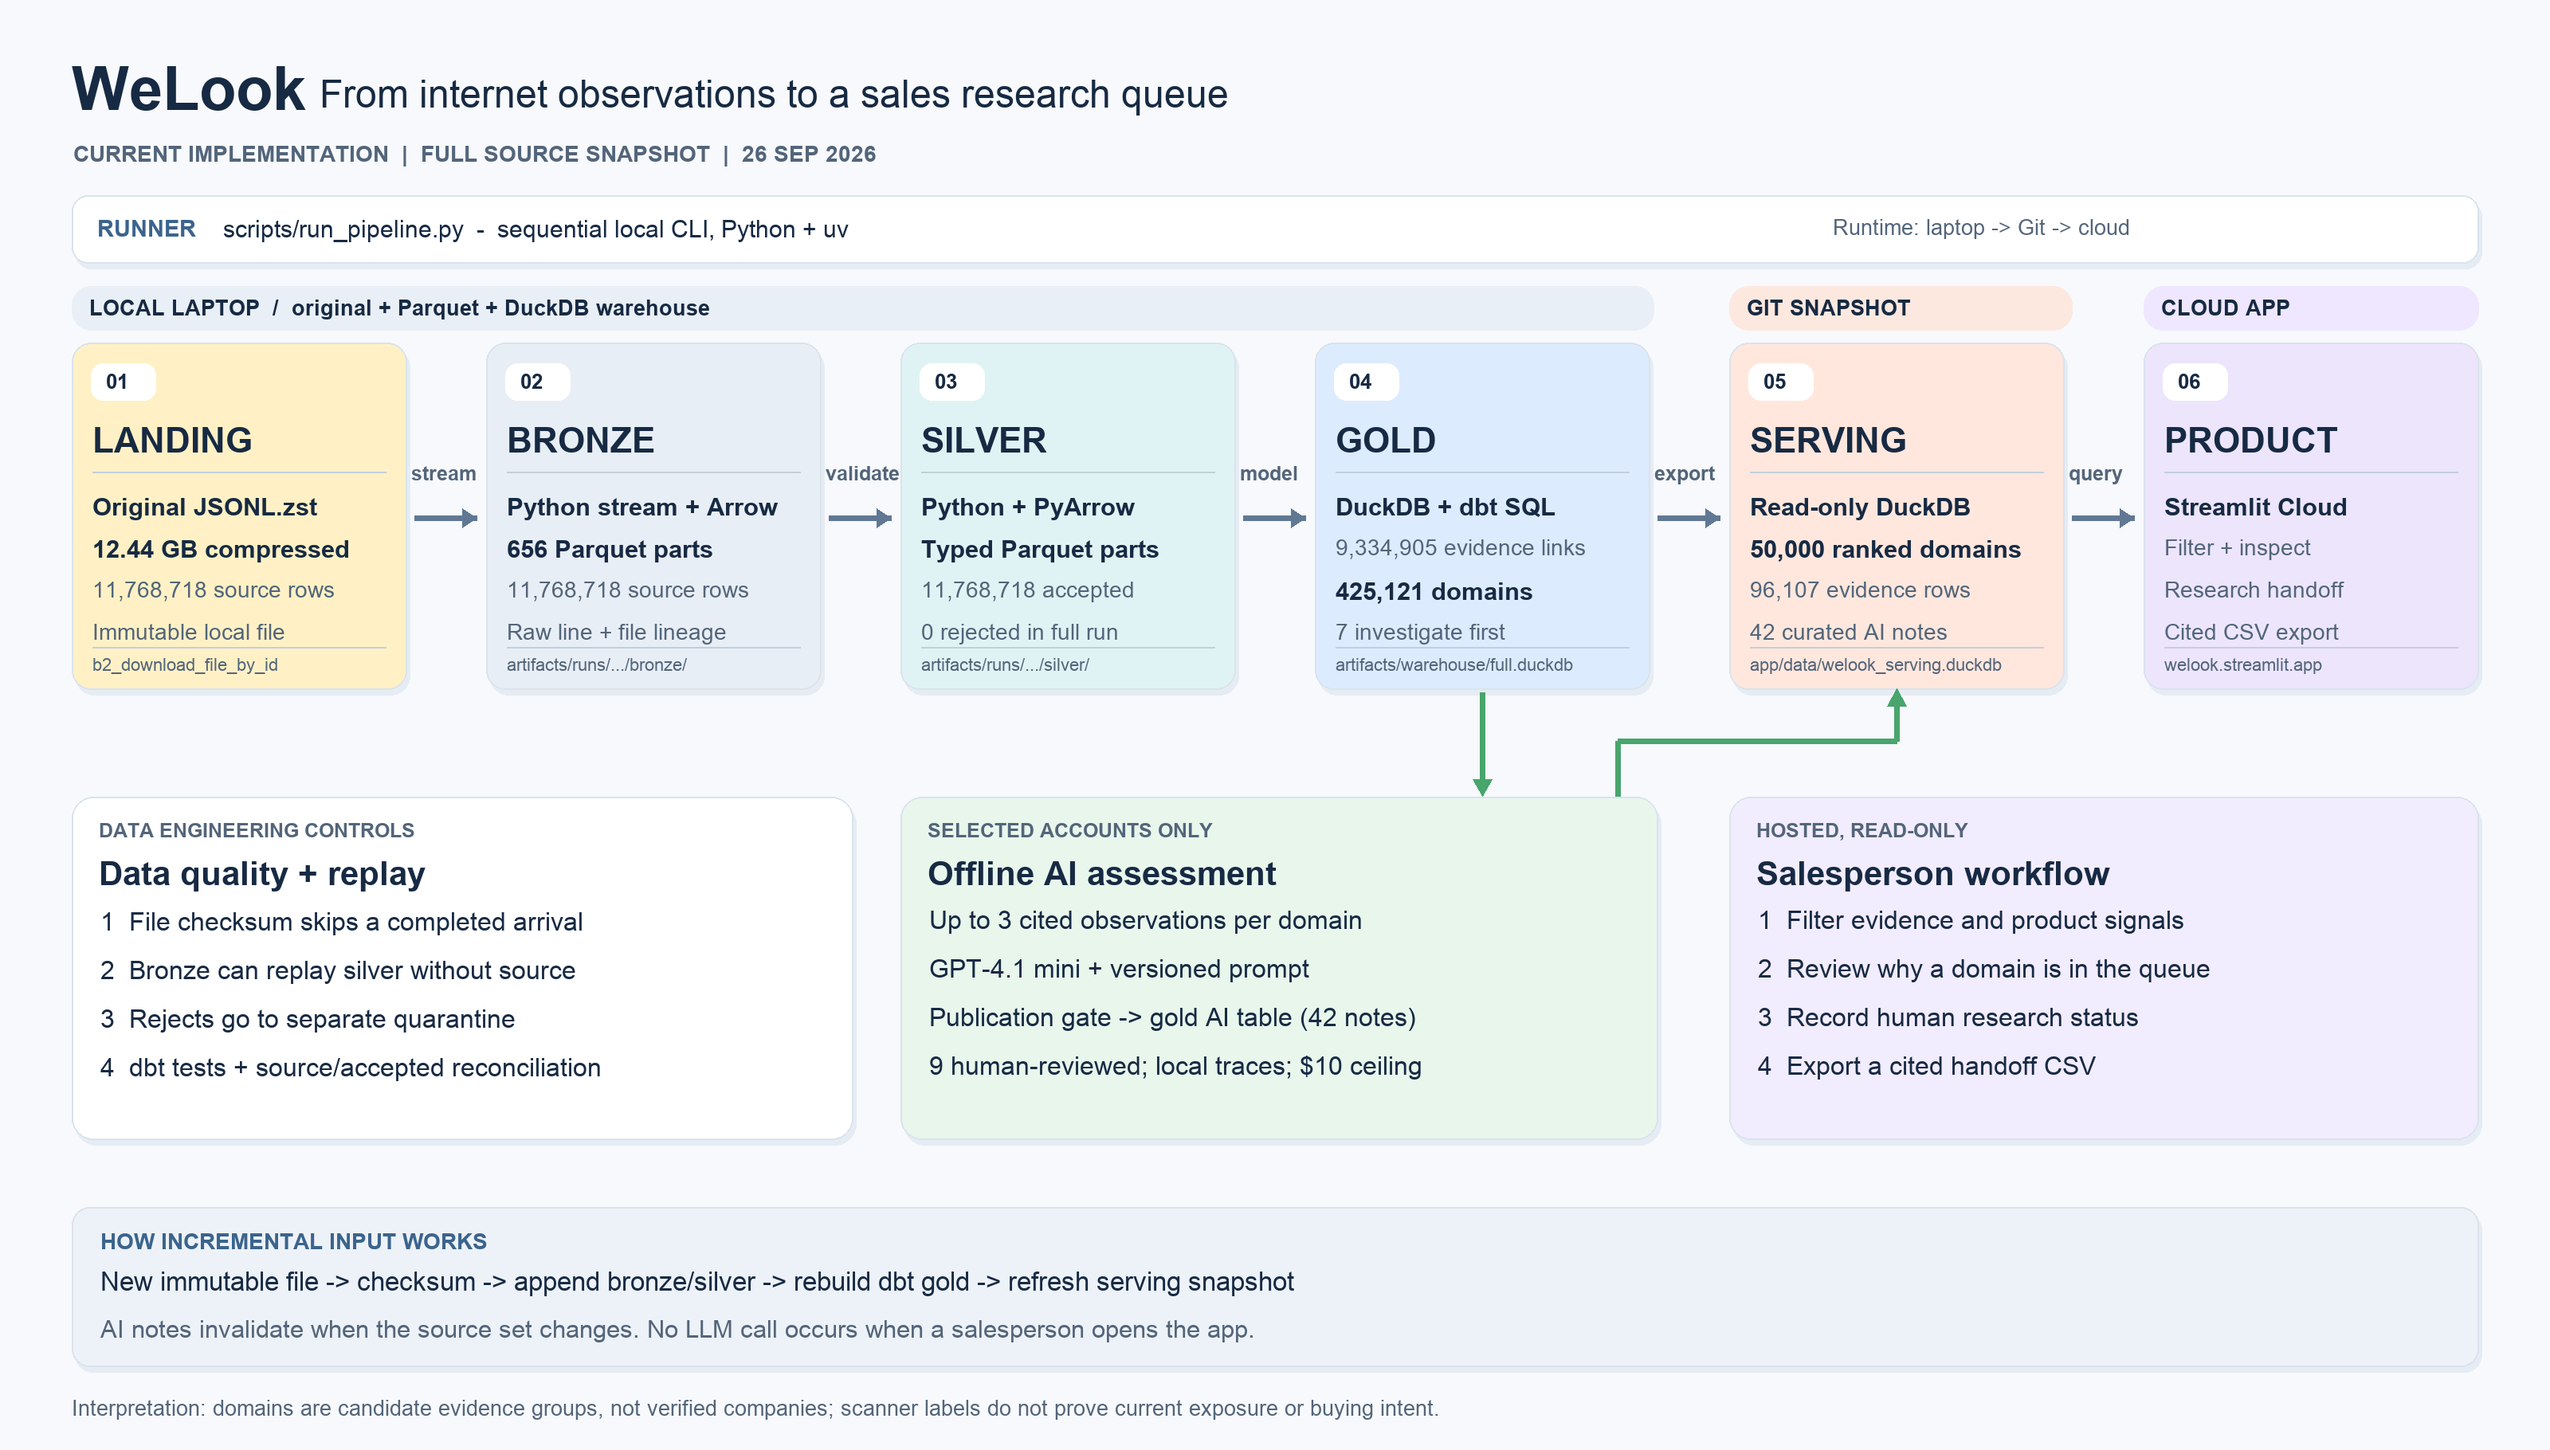
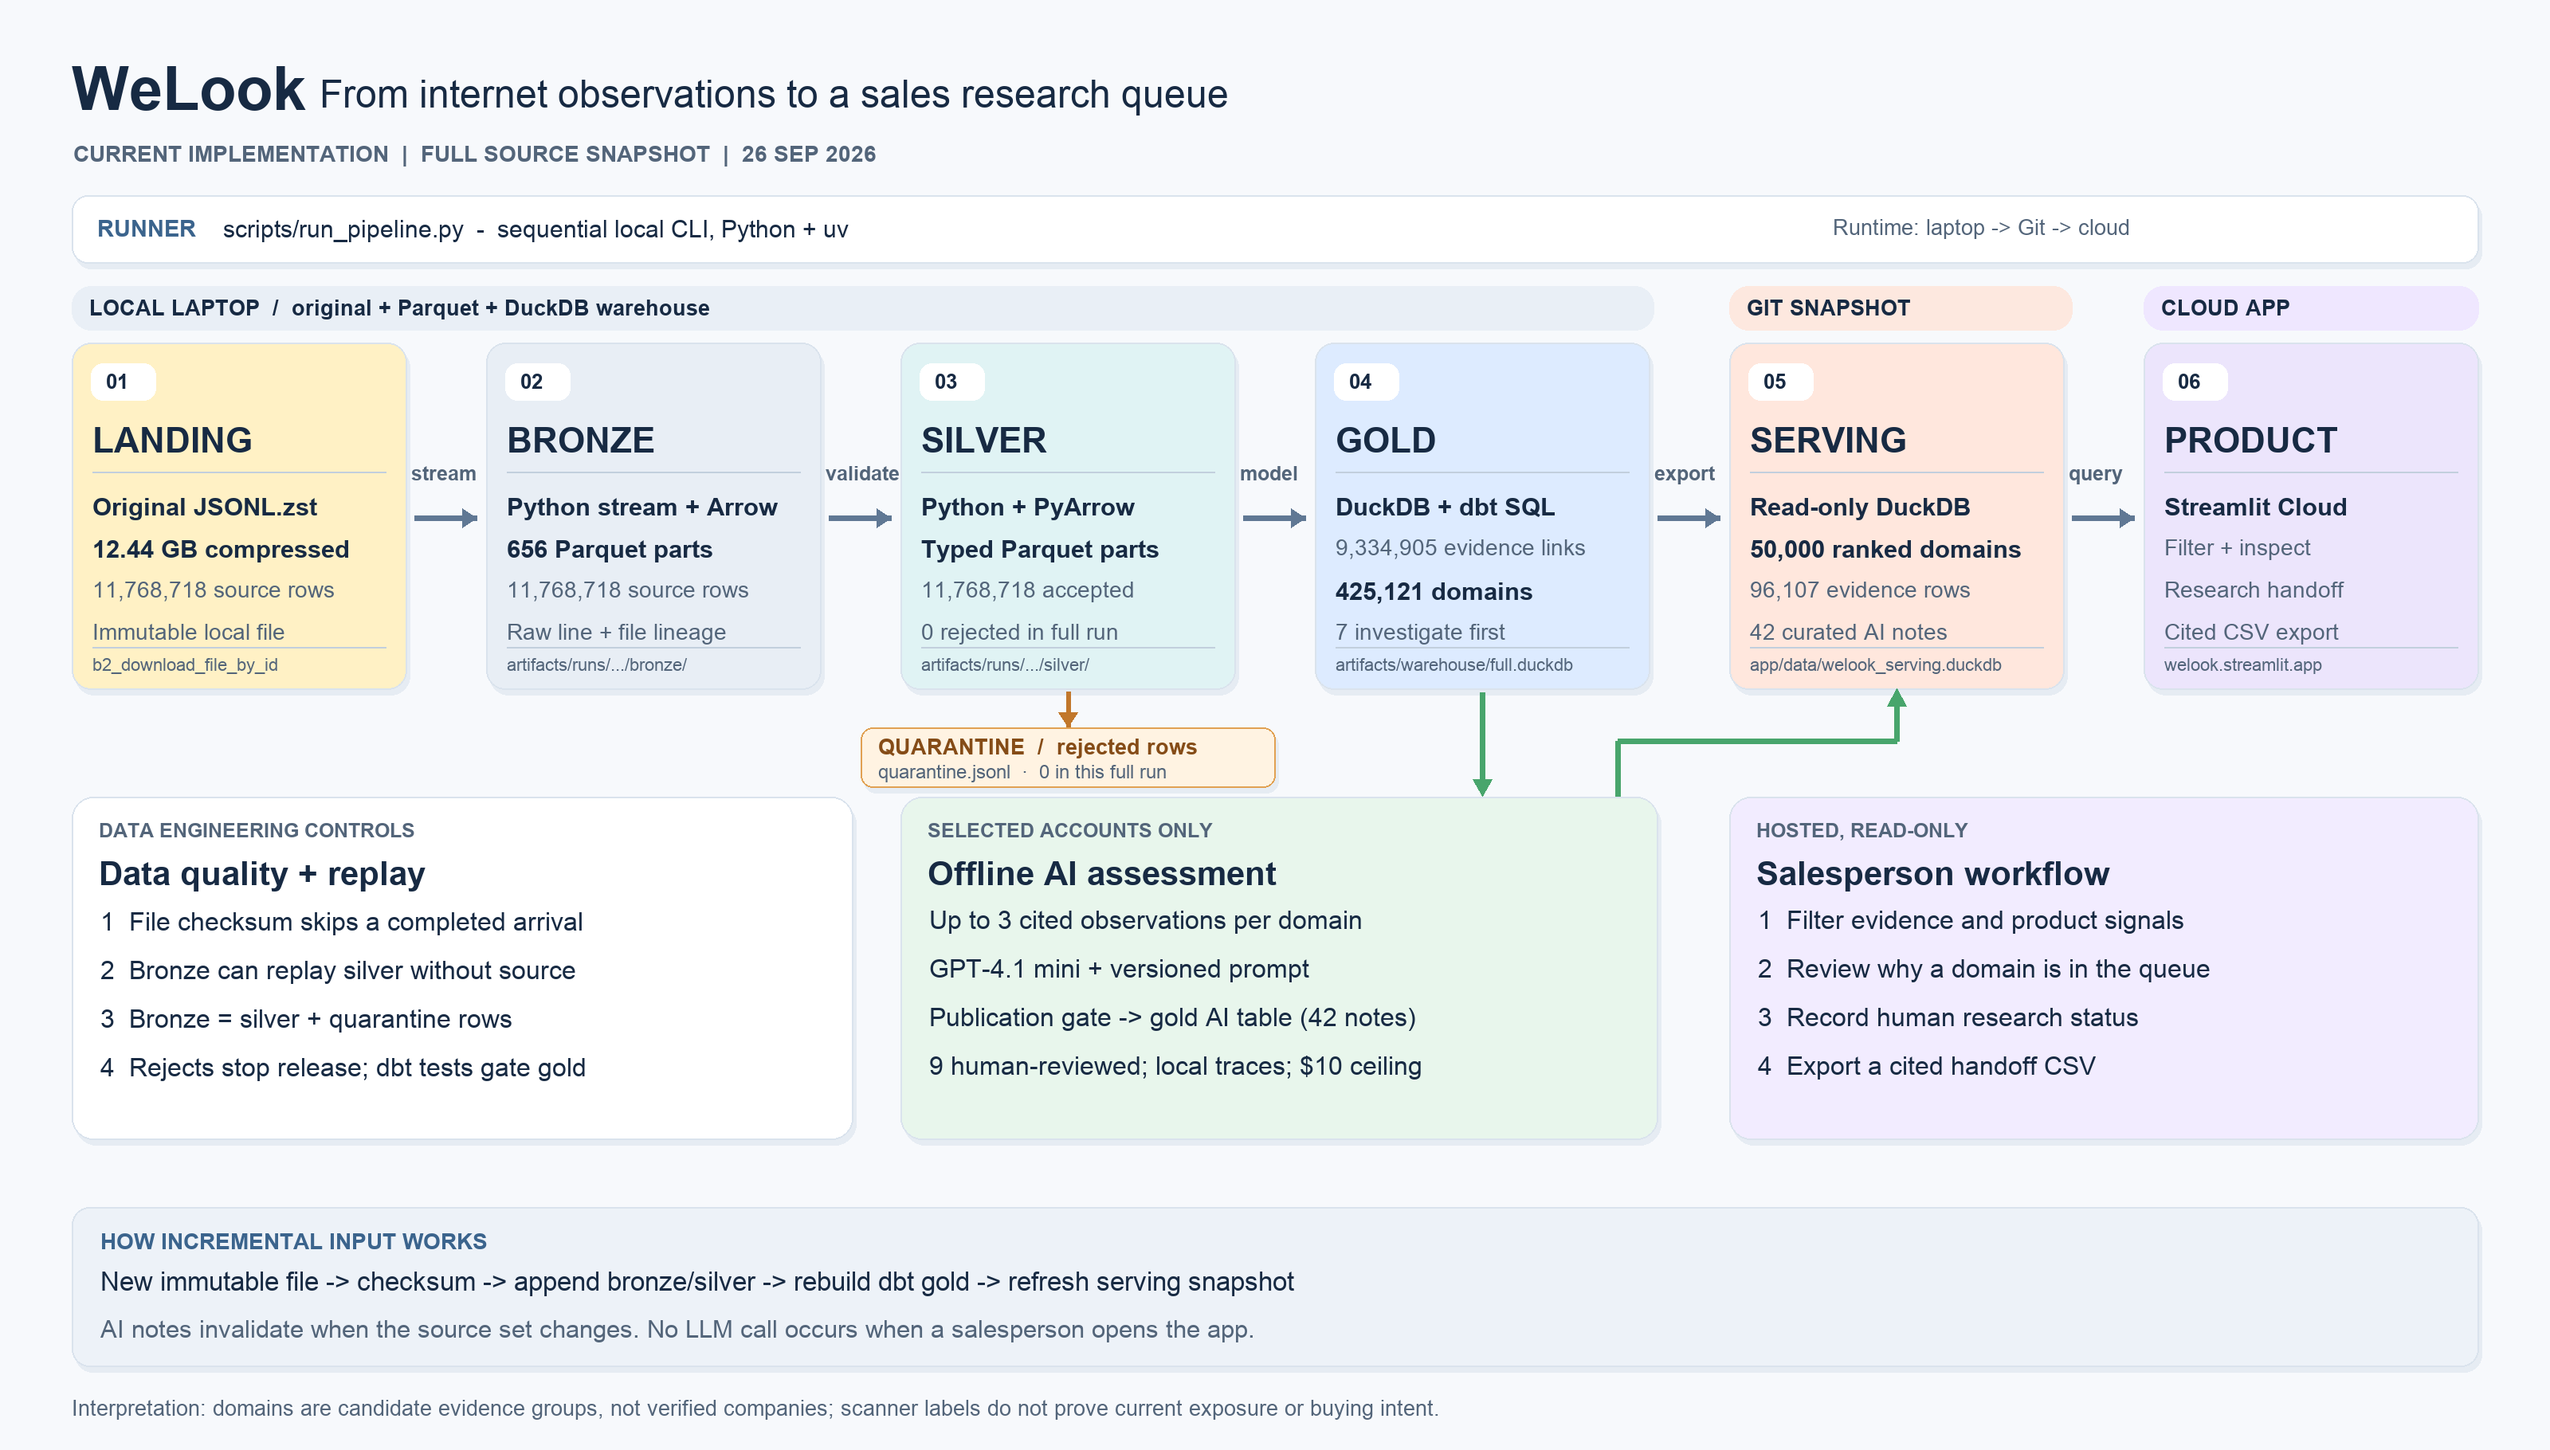
Clarify silver quarantine path in architecture diagram

Changed region(s): [[0.3125, 0.4923, 0.5, 0.5538], [0.0625, 0.6769, 0.2188, 0.7385]]

diff --git a/scripts/render_architecture_diagram.py b/scripts/render_architecture_diagram.py
@@ -150,6 +150,13 @@ def main() -> None:
         arrow(draw, (left + 430, 650), (right - 12, 650))
         label(draw, (left + 426, 580), name, 25, MUTED, True)
 
+    # Silver validation has two outcomes. Rejected rows never enter the typed
+    # silver Parquet or the gold models; they are written beside the run parts.
+    arrow(draw, (1340, 868), (1340, 912), color="#C1772B", width=6)
+    box(draw, (1080, 913, 1600, 988), "#FFF3E2", border="#E1A153", radius=15)
+    label(draw, (1102, 922), "QUARANTINE  /  rejected rows", 27, "#854C17", True)
+    label(draw, (1102, 955), "quarantine.jsonl  ·  0 in this full run", 24, MUTED)
+
     # Offline AI is a separate branch from rule-based gold, then joins serving.
     draw.line([(1860, 869), (1860, 987)], fill="#48A56C", width=7)
     draw.polygon([(1860, 999), (1848, 978), (1872, 978)], fill="#48A56C")
@@ -160,8 +167,8 @@ def main() -> None:
     panel(draw, (90, 1000, 1070, 1430), "Data quality + replay", "DATA ENGINEERING CONTROLS", "#FFFFFF")
     label(draw, (126, 1139), "1  File checksum skips a completed arrival", 32)
     label(draw, (126, 1200), "2  Bronze can replay silver without source", 32)
-    label(draw, (126, 1261), "3  Rejects go to separate quarantine", 32)
-    label(draw, (126, 1322), "4  dbt tests + source/accepted reconciliation", 32)
+    label(draw, (126, 1261), "3  Bronze = silver + quarantine rows", 32)
+    label(draw, (126, 1322), "4  Rejects stop release; dbt tests gate gold", 32)
 
     panel(draw, (1130, 1000, 2080, 1430), "Offline AI assessment", "SELECTED ACCOUNTS ONLY", "#E8F6EC")
     label(draw, (1166, 1137), "Up to 3 cited observations per domain", 32)

diff --git a/README.md b/README.md
@@ -6,9 +6,9 @@ WeLook turns the supplied internet-service observations into an evidence-backed 
 
 ## How it works
 
-![Editable WeLook architecture sketch: full-source ingestion, local warehouse, offline AI assessment, and hosted app](docs/diagrams/architecture_diagram_sketch.png)
+![WeLook architecture: full-source ingestion, silver quarantine, local warehouse, offline AI assessment, and hosted app](docs/diagrams/architecture_diagram.png)
 
-The sketch shows the **current implementation** and is backed by an [editable Excalidraw file](docs/diagrams/welook-architecture.excalidraw). Its PNG preview comes from [render_excalidraw_preview.py](scripts/render_excalidraw_preview.py). A [clean presentation PNG](docs/diagrams/architecture_diagram.png), generated from the serving report with [render_architecture_diagram.py](scripts/render_architecture_diagram.py), adds physical paths for each layer.
+The diagram shows the **current implementation**, including the separate quarantine side output from silver validation, where each layer lives, and how counts change. The [editable Excalidraw file](docs/diagrams/welook-architecture.excalidraw) shows the same flow in a compact layout. Regenerate the PNG from the serving report with [render_architecture_diagram.py](scripts/render_architecture_diagram.py).
 
 The full data path is running end to end. A separate gold AI-assessment table holds 42 advisory offline research notes: 33 guarded batch notes for ambiguous accounts, two earlier reviewed examples, and seven individually reviewed `investigate_first` briefs. The serving snapshot copies only assessments for its hosted accounts. The rule-based queue remains authoritative. See the [system architecture](docs/architecture.md) for the data contracts, incremental-load behavior, and cost controls.
 

diff --git a/docs/architecture.md b/docs/architecture.md
@@ -10,7 +10,7 @@ The supplied snapshot is the core dataset: **11,768,718 service observations** i
 
 ## Data flow
 
-The [editable Excalidraw diagram](diagrams/welook-architecture.excalidraw) has a [sketch-style PNG preview](diagrams/architecture_diagram_sketch.png) for walkthroughs. A [clean architecture PNG](diagrams/architecture_diagram.png) adds the current storage paths and record-count reductions.
+The [architecture PNG](diagrams/architecture_diagram.png) shows the current storage paths, record-count reductions, and the separate quarantine output of silver validation. An [editable Excalidraw diagram](diagrams/welook-architecture.excalidraw) shows the same flow for walkthroughs.
 
 ```mermaid
 flowchart LR
